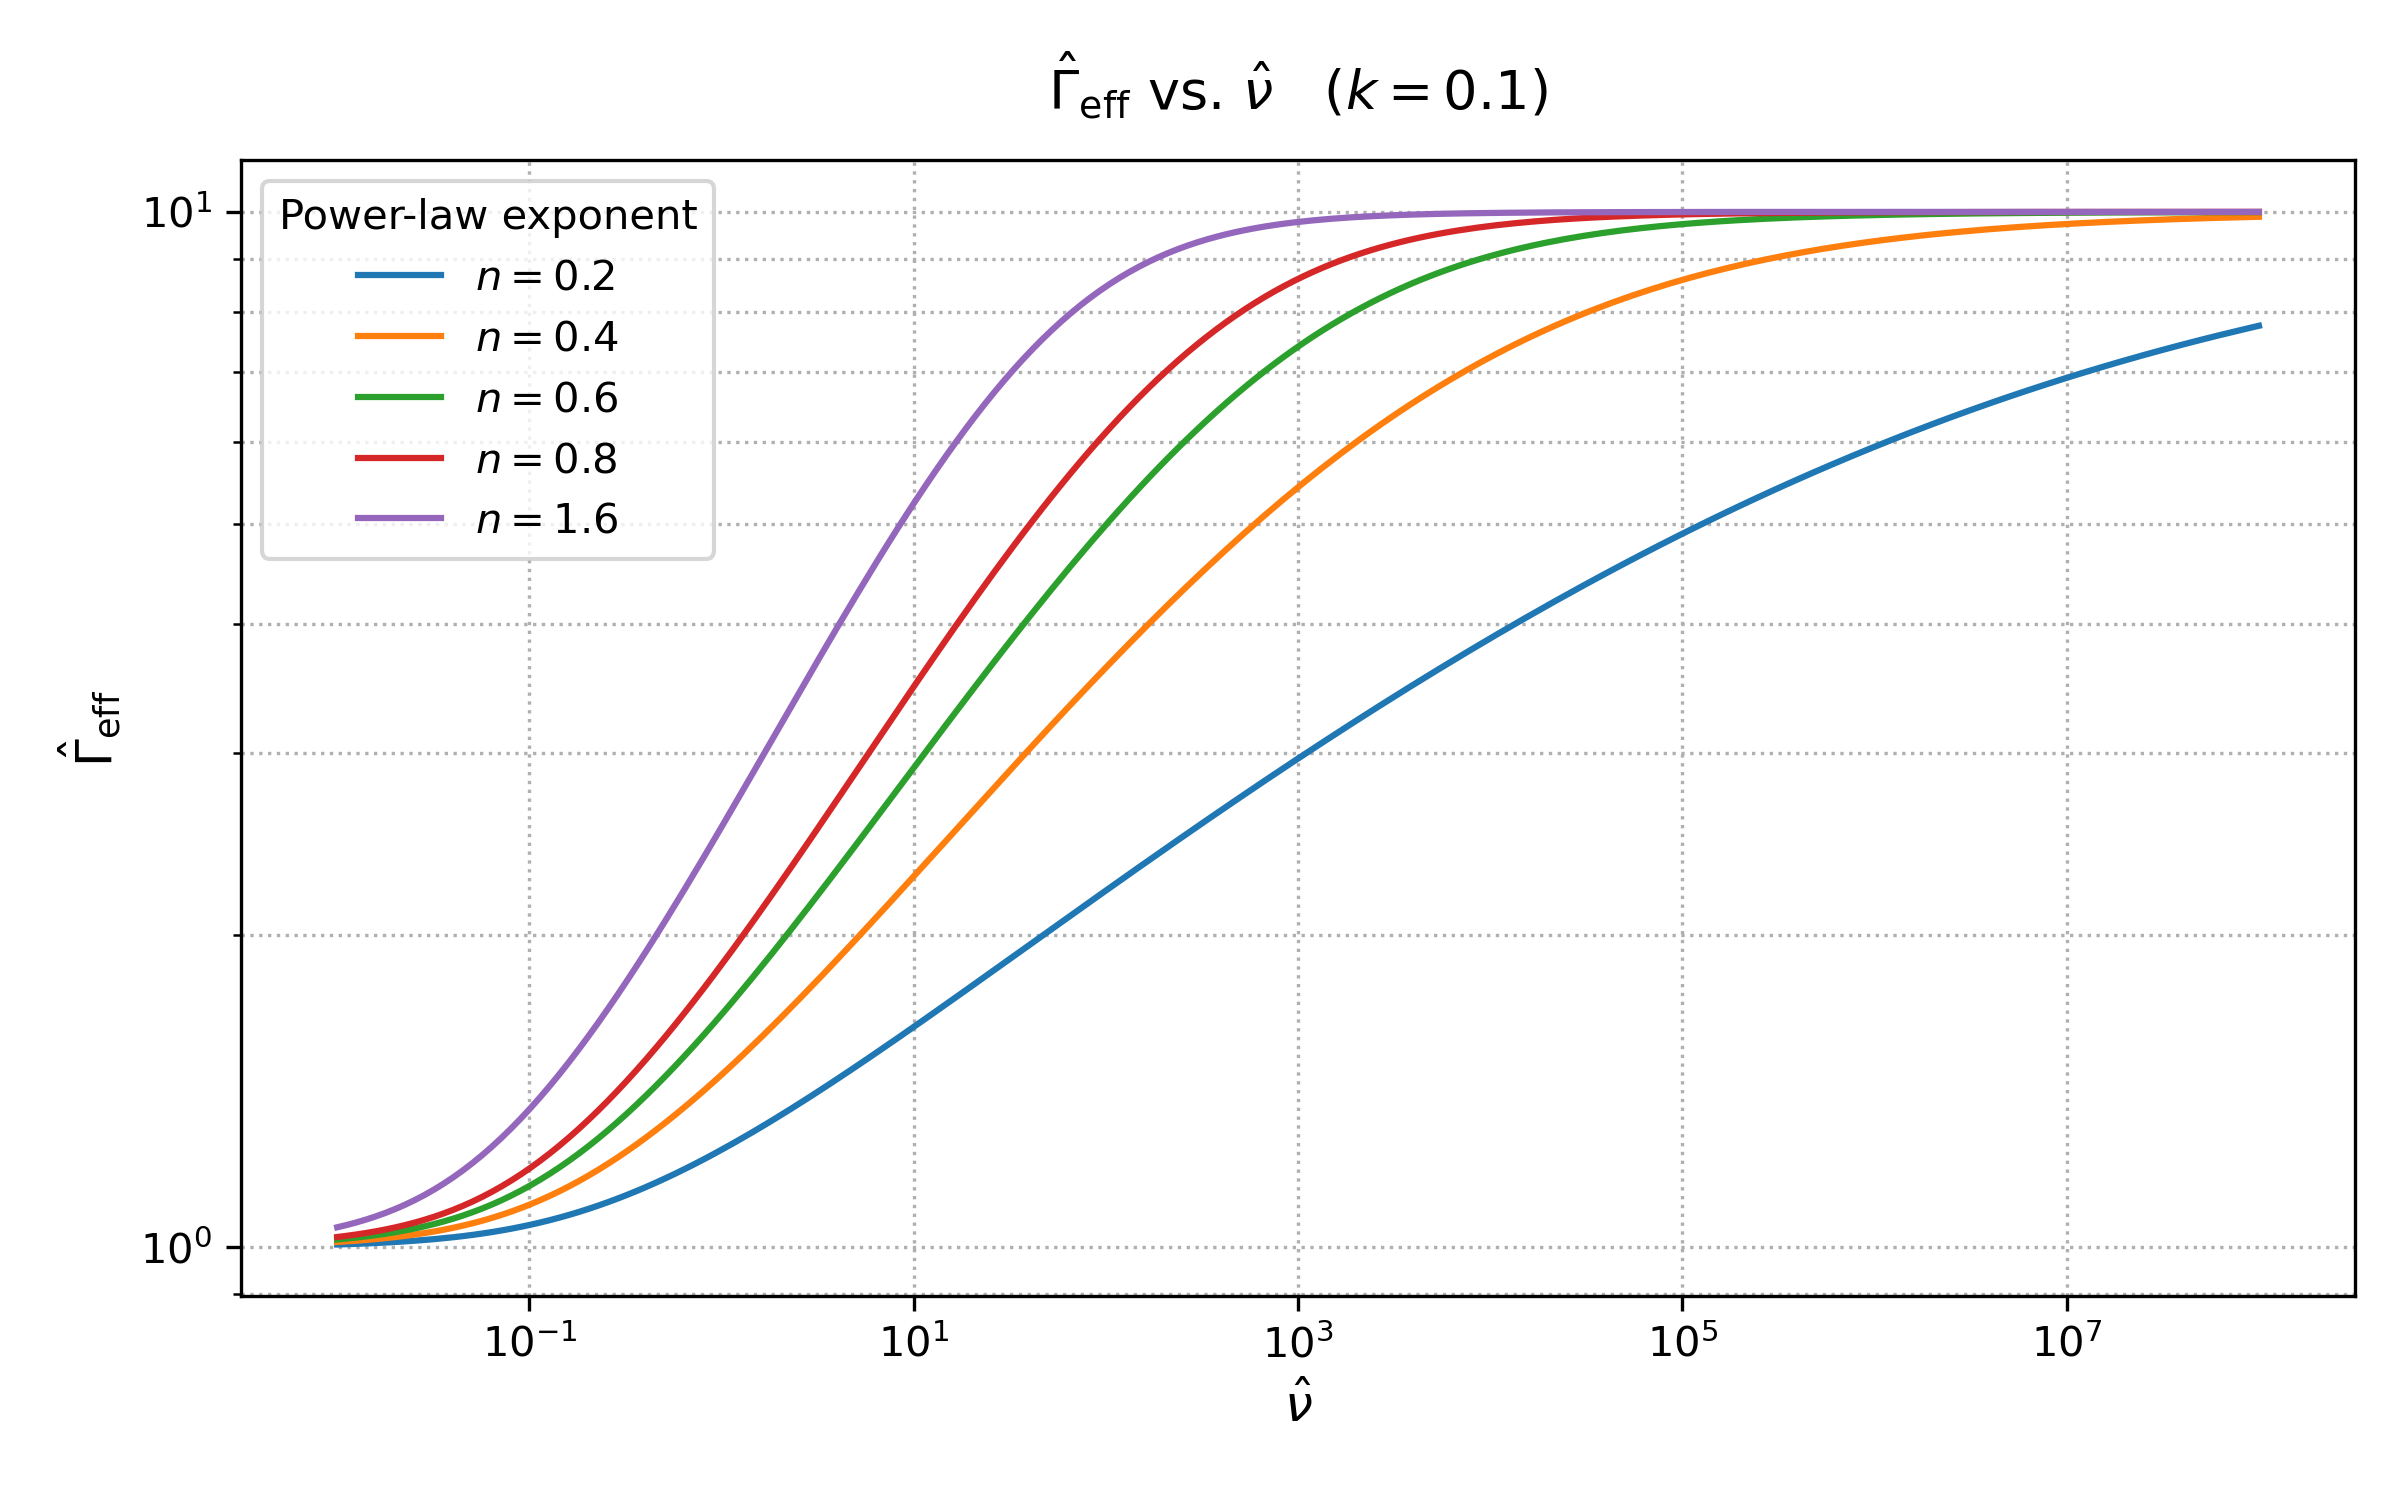
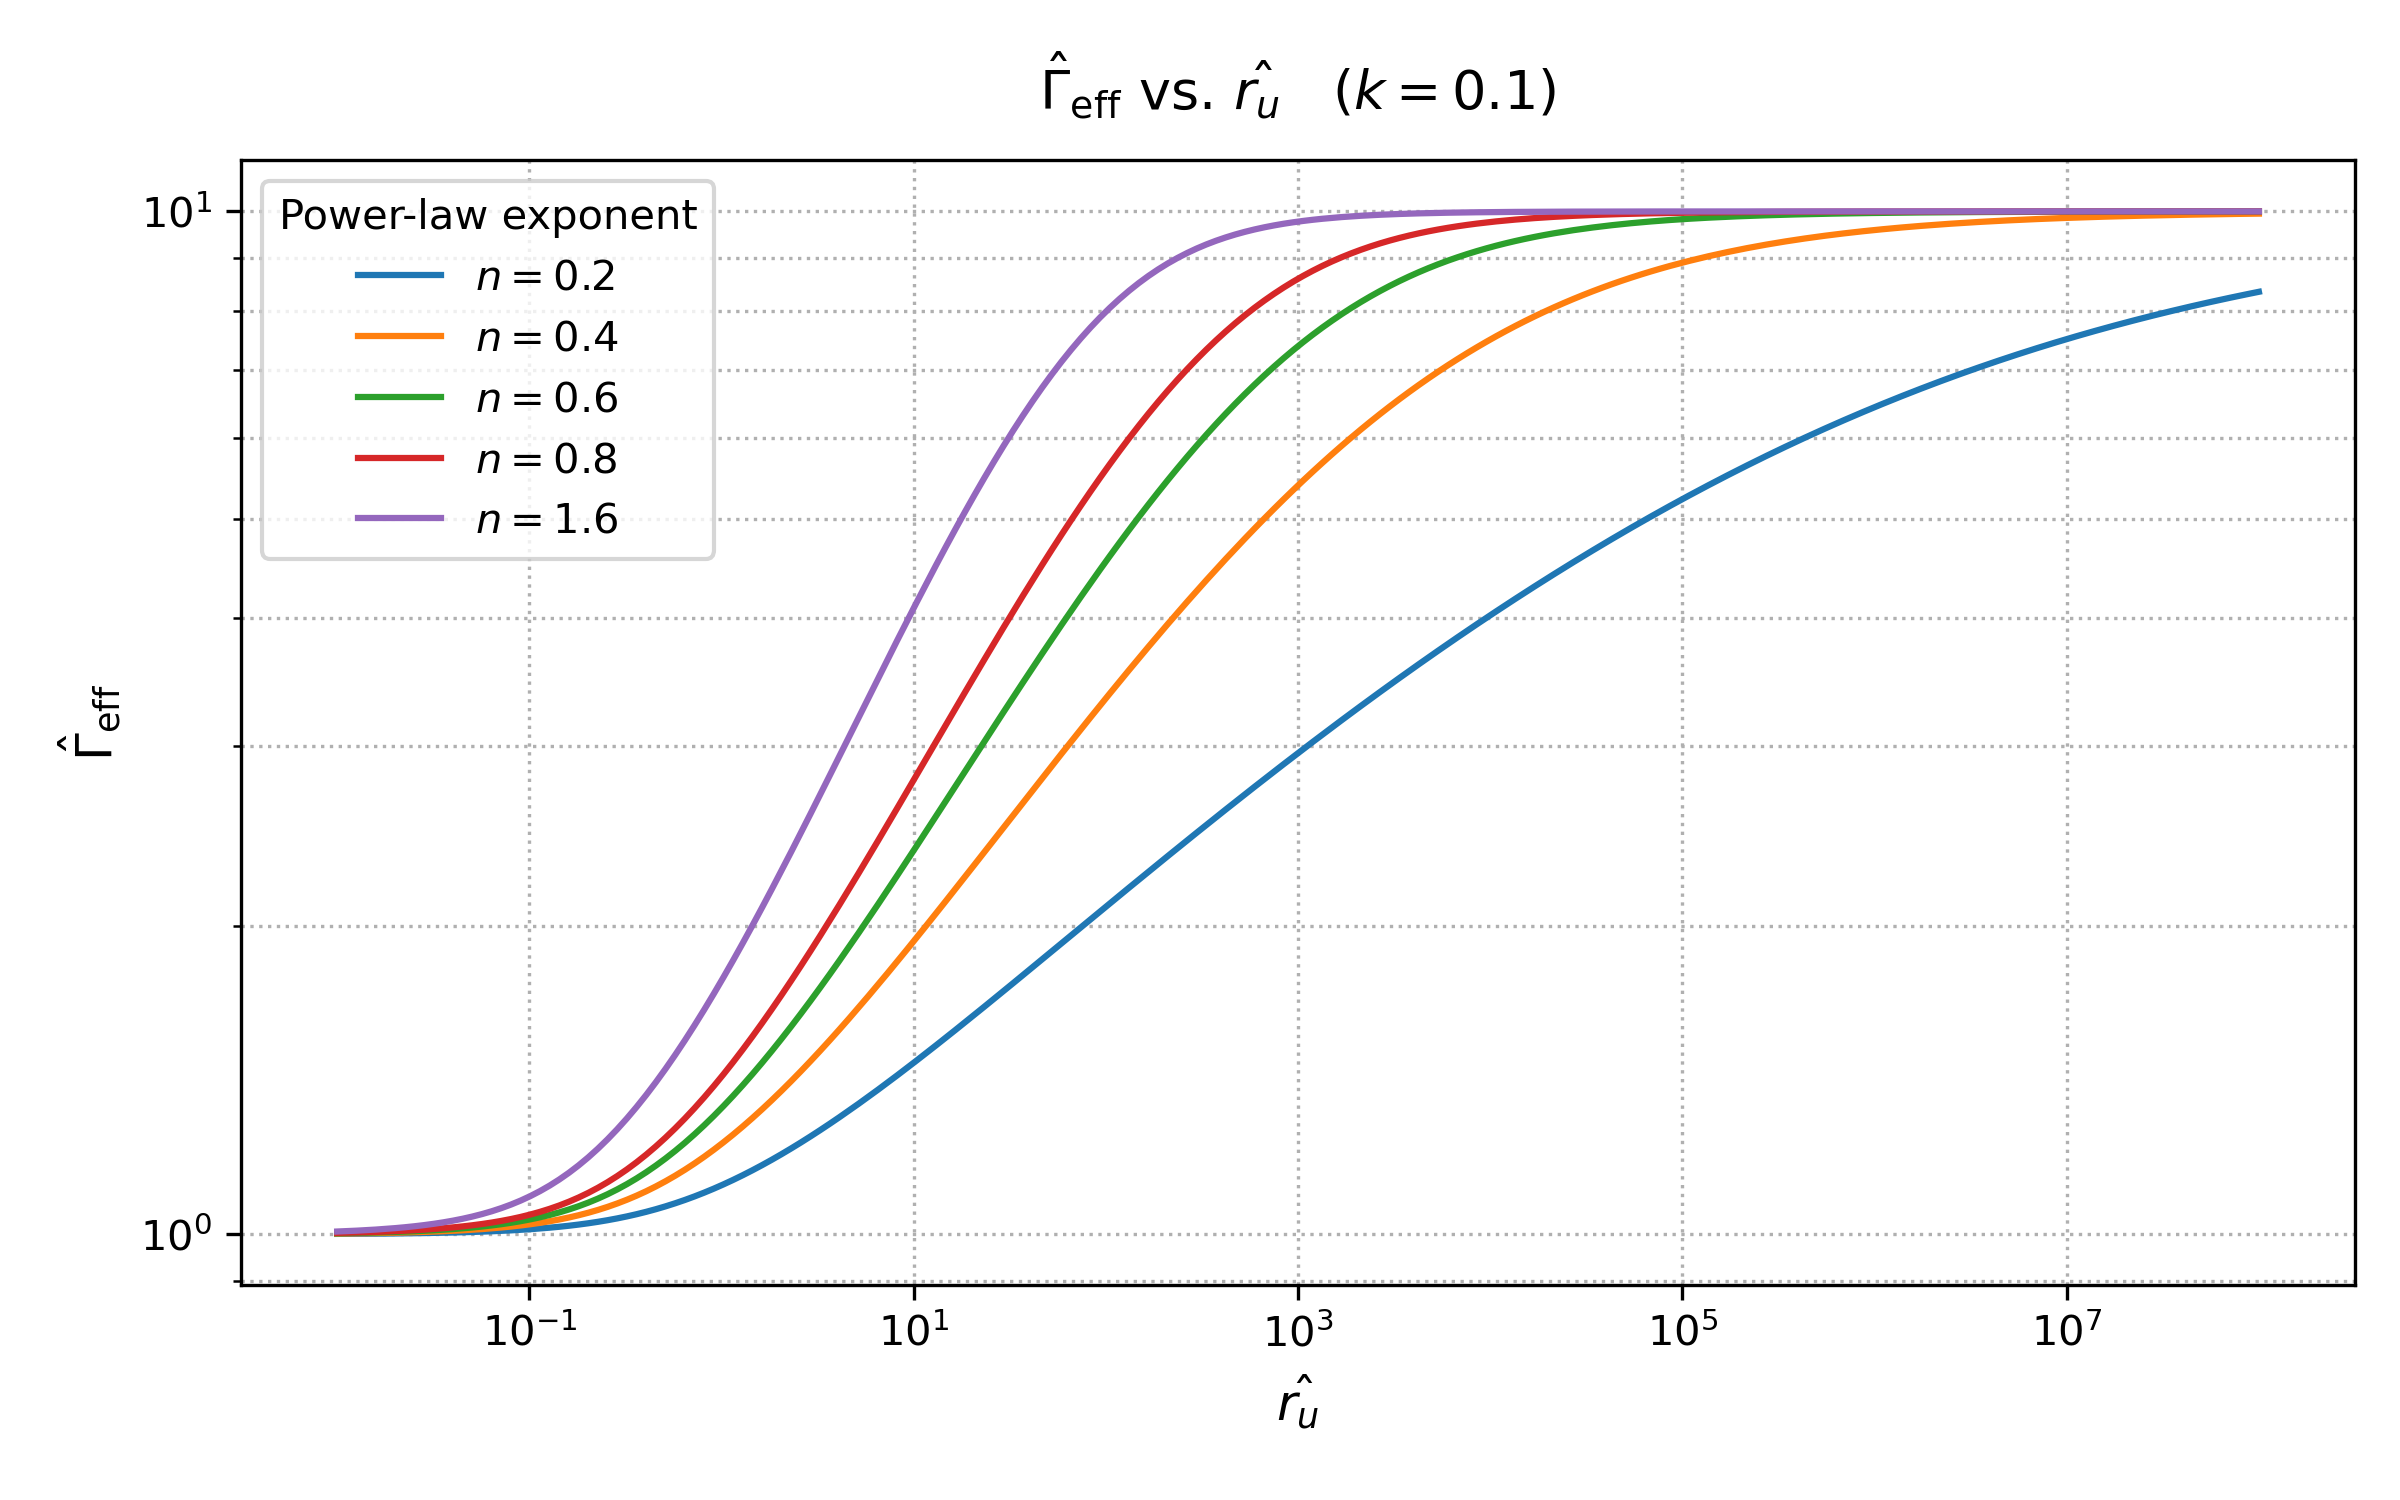
XPB is added

diff --git a/XPB.py b/XPB.py
@@ -1,0 +1,96 @@
+"""
+This code computes the effective gamma value for a range of unloading rate (r_u)
+values and plots the results for different power-law exponents (n).
+The viscoelastic response is modeled via the MPL framework from:
+
+Maghami, A., et al., JMPS, Vol. 193, 2024, 105844.
+
+Author: Ali Maghami
+Date: 2025-05-14
+License: MIT License
+"""
+
+import math
+import numpy as np
+import mpmath as mp
+import matplotlib.pyplot as plt
+
+# ----------------------------------------------------------
+# Model parameters
+k = 0.10
+n_list = [0.2, 0.4, 0.6, 0.8, 1.6]  # MPL exponents
+ru_min, ru_max = 1e-2, 1e10         # Unloading rate range
+num_points = 200                   # Grid resolution
+# ----------------------------------------------------------
+
+# Conversion constants (from paper)
+C1 = 2.887
+C2 = 3.24 * np.pi**(2/3)
+
+# ---------------------------------------------------------------------------
+# Helpers
+# ---------------------------------------------------------------------------
+def _gamma_product(b_list):
+    prod = 1
+    for b in b_list:
+        prod *= mp.gamma(b)
+    return prod
+
+def hyper_reg(a_list, b_list, z):
+    return mp.hyper(a_list, b_list, z) / _gamma_product(b_list)
+
+def I_value(n, nu, Gamma):
+    pre = (2 ** (-3 - 2 * n)) * (math.pi ** (-1.5 - n)) / ((n - 1) * nu)
+    x_sq = (Gamma / (4 * math.pi * nu)) ** 2
+    z = -x_sq
+
+    hyper1 = mp.hyper([-0.5], [0.5 - n / 2, 1 - n / 2], z)
+    term1 = -(4 ** (1 + n)) * (math.pi ** (0.5 + n)) * (
+        Gamma - 2 * (n - 1) * math.pi * nu * hyper1
+    )
+
+    hyper2 = hyper_reg([(n - 1) / 2], [0.5, (2 + n) / 2], z)
+    hyper3 = hyper_reg([n / 2], [1.5, (3 + n) / 2], z)
+
+    term2 = (
+        2
+        * math.pi
+        * (Gamma / nu) ** n
+        * (
+            4 * math.pi * nu * mp.gamma(1 - n / 2) * hyper2
+            + Gamma * mp.gamma(1.5 - n / 2) * hyper3
+        )
+    )
+
+    return pre * (term1 + term2)
+
+def gamma_eff(n, k, nu, tol=1e-10, max_iter=200):
+    Gamma = 1.0
+    for _ in range(max_iter):
+        I = I_value(n, nu, Gamma)
+        Gamma_next = 1.0 / (1.0 - (1.0 - k) * I)
+        if abs(Gamma_next - Gamma) < tol:
+            return float(Gamma_next)
+        Gamma = Gamma_next
+    raise RuntimeError(f"Convergence failed at ν̂ = {nu:g}")
+
+# ---------------------------------------------------------------------------
+# Plot
+# ---------------------------------------------------------------------------
+ru_vals = np.logspace(np.log10(ru_min), np.log10(ru_max), num_points)
+
+plt.figure(figsize=(8, 5))
+for n in n_list:
+    # Convert r_u to ν̂
+    nu_vals = C1 * ((ru_vals / C2) ** 1.171)
+    gamma_vals = np.array([gamma_eff(n, k, nu) for nu in nu_vals])
+    plt.loglog(ru_vals, gamma_vals, label=fr"$n = {n}$")
+
+plt.xlabel(r"Unloading Rate $r_u$", fontsize=12)
+plt.ylabel(r"$\hat{\Gamma}_{\mathrm{eff}}$", fontsize=12)
+plt.title(r"$\hat{\Gamma}_{\mathrm{eff}}$ vs. $r_u$" + f"   ($k={k}$)", fontsize=13, pad=12)
+plt.grid(True, which="both", ls=":")
+plt.legend(title="Power-law exponent", fontsize=10)
+plt.tight_layout()
+plt.savefig("gamma_vs_ru_plot.png", dpi=300)
+plt.show()
